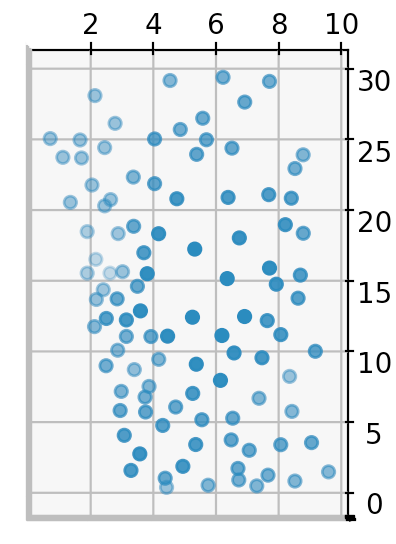
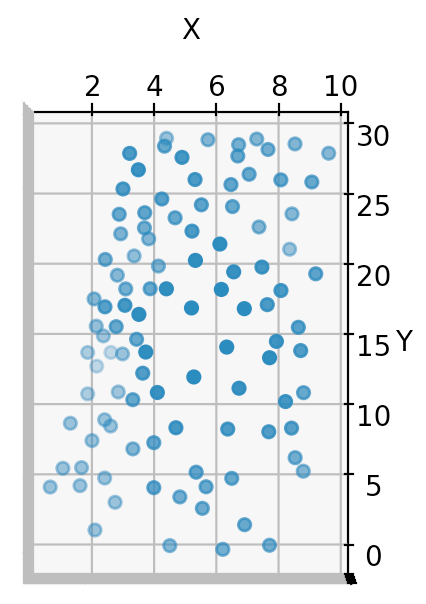
fix the direction of the x-axis in points_from_image

Changed region(s): [[0.0303, 0.0, 1.0, 0.9688]]

diff --git a/graph.py b/graph.py
@@ -40,6 +40,9 @@ def points_from_image():
     points[:, 1] = points[:, 1] / (423/10)  # 423 - > 10
     points[:, 2] = points[:, 2]  # 3 (-1 - 2ft )
 
+    # flip x axis so that it goes 0 to 30, down to up
+    points[:, 0] = np.max(points[:, 0]) - points[:, 0]
+
     return points
 
 
@@ -91,12 +94,13 @@ def plot_points(points):
 
     ax.scatter(points[:, 1], points[:, 0], points[:, 2], marker='o')
 
-    # ax.set_xlabel('X Label')
-    # ax.set_ylabel('Y Label')
-    # ax.set_zlabel('Z Label')
+    ax.set_xlabel('X')
+    ax.set_ylabel('Y')
+    ax.set_zlabel('Z')
 
     # ax.view_init(elev, azimuth angle)
-    ax.view_init(90, -90)
+    ax.view_init(90, -90)  # X-Y Axis
+    # ax.view_init(0, 180)  # Y-Z Axis
 
     plt.show()
 
